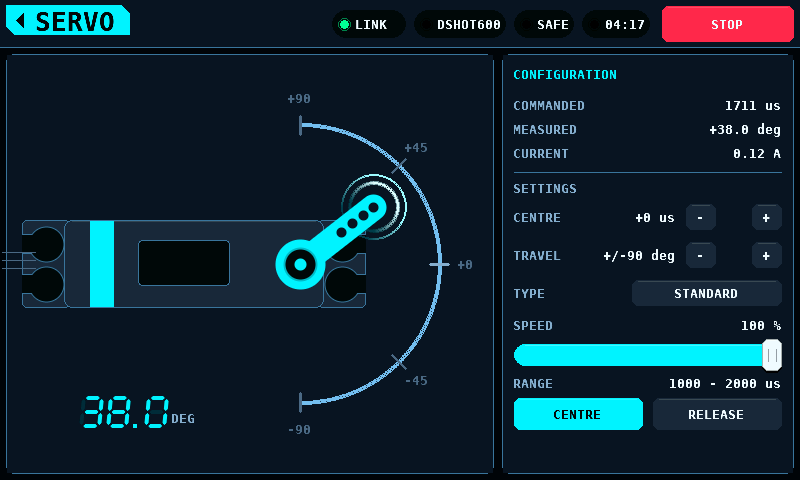
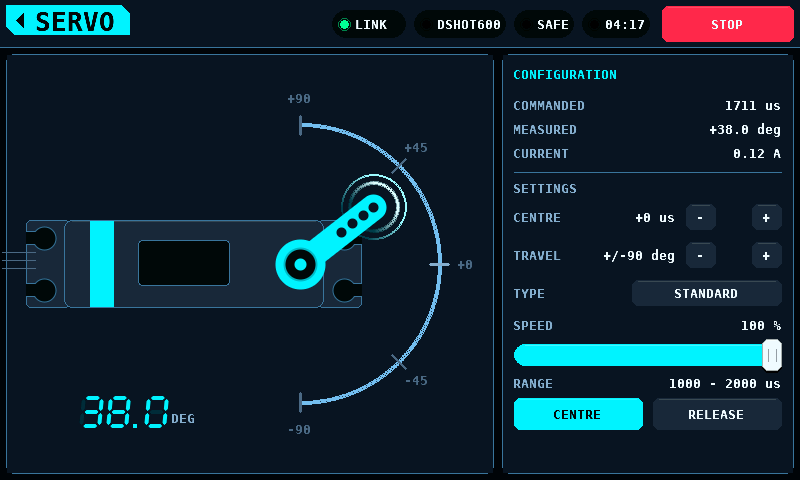
Size the lug from its clearances
At three times the bore the two slots came within four pixels of each
other and the flange was more hole than material; at twice there are
twenty-eight between them.

The bore also stands off the case now.  Sized the other way round --
flange first, hole centred in it -- the bore ended up touching the case,
which is the one place a lug never has a hole.  So nothing here is a
chosen number except three clearances: material outside the bore,
material between it and the case, and how far the case laps over.  The
flange's width and the hole positions fall out of those.

Changed region(s): [[0.0, 0.4688, 0.0938, 0.625], [0.4062, 0.5, 0.4688, 0.625]]

diff --git a/shared/ui/servo_screen.c b/shared/ui/servo_screen.c
@@ -44,16 +44,22 @@
  * The mounting flanges.
  *
  * They run the full width of the case, because that is what they do -- the
- * lug is moulded across the whole end, not tucked into the middle of it.  So
- * the width is the case's, and the hole positions fall out of wanting the
- * same margin of material all the way round rather than being chosen.
+ * lug is moulded across the whole end, not tucked into the middle of it.
+ *
+ * Nothing here is a chosen number except the three clearances.  The flange's
+ * width is whatever it takes to hold a bore with TAB_MARGIN of material
+ * outside it and TAB_INNER between it and the case, and the hole positions
+ * fall out of wanting the same margin top and bottom.  Sized the other way
+ * round -- flange first, holes centred in it -- the bore ends up touching the
+ * case, which is the one place a lug never has a hole.
  */
-#define TAB_HOLE_R  18
-#define TAB_MARGIN  6
-#define TAB_W       (2 * (TAB_HOLE_R + TAB_MARGIN))
+#define TAB_HOLE_R  12
+#define TAB_MARGIN  6                  /* material outside the bore     */
+#define TAB_INNER   8                  /* between the bore and the case */
+#define TAB_OVER    6                  /* how far the case laps over it */
+#define TAB_W       (TAB_MARGIN + 2 * TAB_HOLE_R + TAB_INNER + TAB_OVER)
 #define TAB_H       BODY_H
 #define TAB_HOLE_DY (BODY_H / 2 - TAB_MARGIN - TAB_HOLE_R)
-#define TAB_OVER    6                  /* how far the case laps over it */
 
 /*
  * Screen angle from servo angle.
@@ -364,7 +370,10 @@ static void draw_body(gfx_canvas_t *c)
          * already in, and the open side is the first thing you recognise a
          * servo by from above.
          */
-        const int cxh   = tx + TAB_W / 2;
+        /* Set in from the flange's own outer edge, so the bore keeps its
+         * distance from the case whichever end it is on. */
+        const int cxh   = (i == 0) ? tx + TAB_MARGIN + TAB_HOLE_R
+                                   : tx + TAB_W - TAB_MARGIN - TAB_HOLE_R;
         const int mouth = (i == 0) ? tx : tx + TAB_W;   /* the open edge */
         /*
          * The bore is darker than both the lug and the card behind it.  A

diff --git a/README.md b/README.md
@@ -353,7 +353,7 @@ samples currently costs **740**.
 | `shared/ui/overview_screen.c` | 65 | 60 | 92.3% |
 | `shared/ui/stub_screen.c` | 45 | 41 | 91.1% |
 | `shared/ui/motor_screen.c` | 175 | 169 | 96.6% |
-| `shared/ui/servo_screen.c` | 343 | 305 | 88.9% |
+| `shared/ui/servo_screen.c` | 344 | 306 | 89.0% |
 | `shared/ui/log_viewer_screen.c` | 681 | 621 | 91.2% |
 | `shared/ui/settings_screen.c` | 241 | 228 | 94.6% |
 | `shared/settings/settings.c` | 131 | 125 | 95.4% |
@@ -380,7 +380,7 @@ samples currently costs **740**.
 | `shared/bench/throttle.c` | 53 | 45 | 84.9% |
 | `shared/bench/telemetry_sim.c` | 47 | 44 | 93.6% |
 | `shared/bench/log_writer.c` | 43 | 40 | 93.0% |
-| **total** | **6015** | **5684** | **94.5%** |
+| **total** | **6016** | **5685** | **94.5%** |
 
 _Generated by `tools/coverage.py`; CI runs `--check` and fails on drift._
 <!-- coverage:end -->

diff --git a/docs/Performance.md b/docs/Performance.md
@@ -28,7 +28,7 @@ frame-idle          974      122 KiB      3.2      39.0
 sim             11,703     1463 KiB     38.4      19.5
 chrome          30,431     3804 KiB     99.9       9.8
 overview           940      118 KiB      3.1      39.0
-servo           15,454     1932 KiB     50.7      19.5
+servo           15,452     1932 KiB     50.7      19.5
 servo-grip        2,982      373 KiB      9.8      39.0
 clear           12,006     1501 KiB     39.4      19.5
 vlines           8,160     1020 KiB     26.8      19.5
